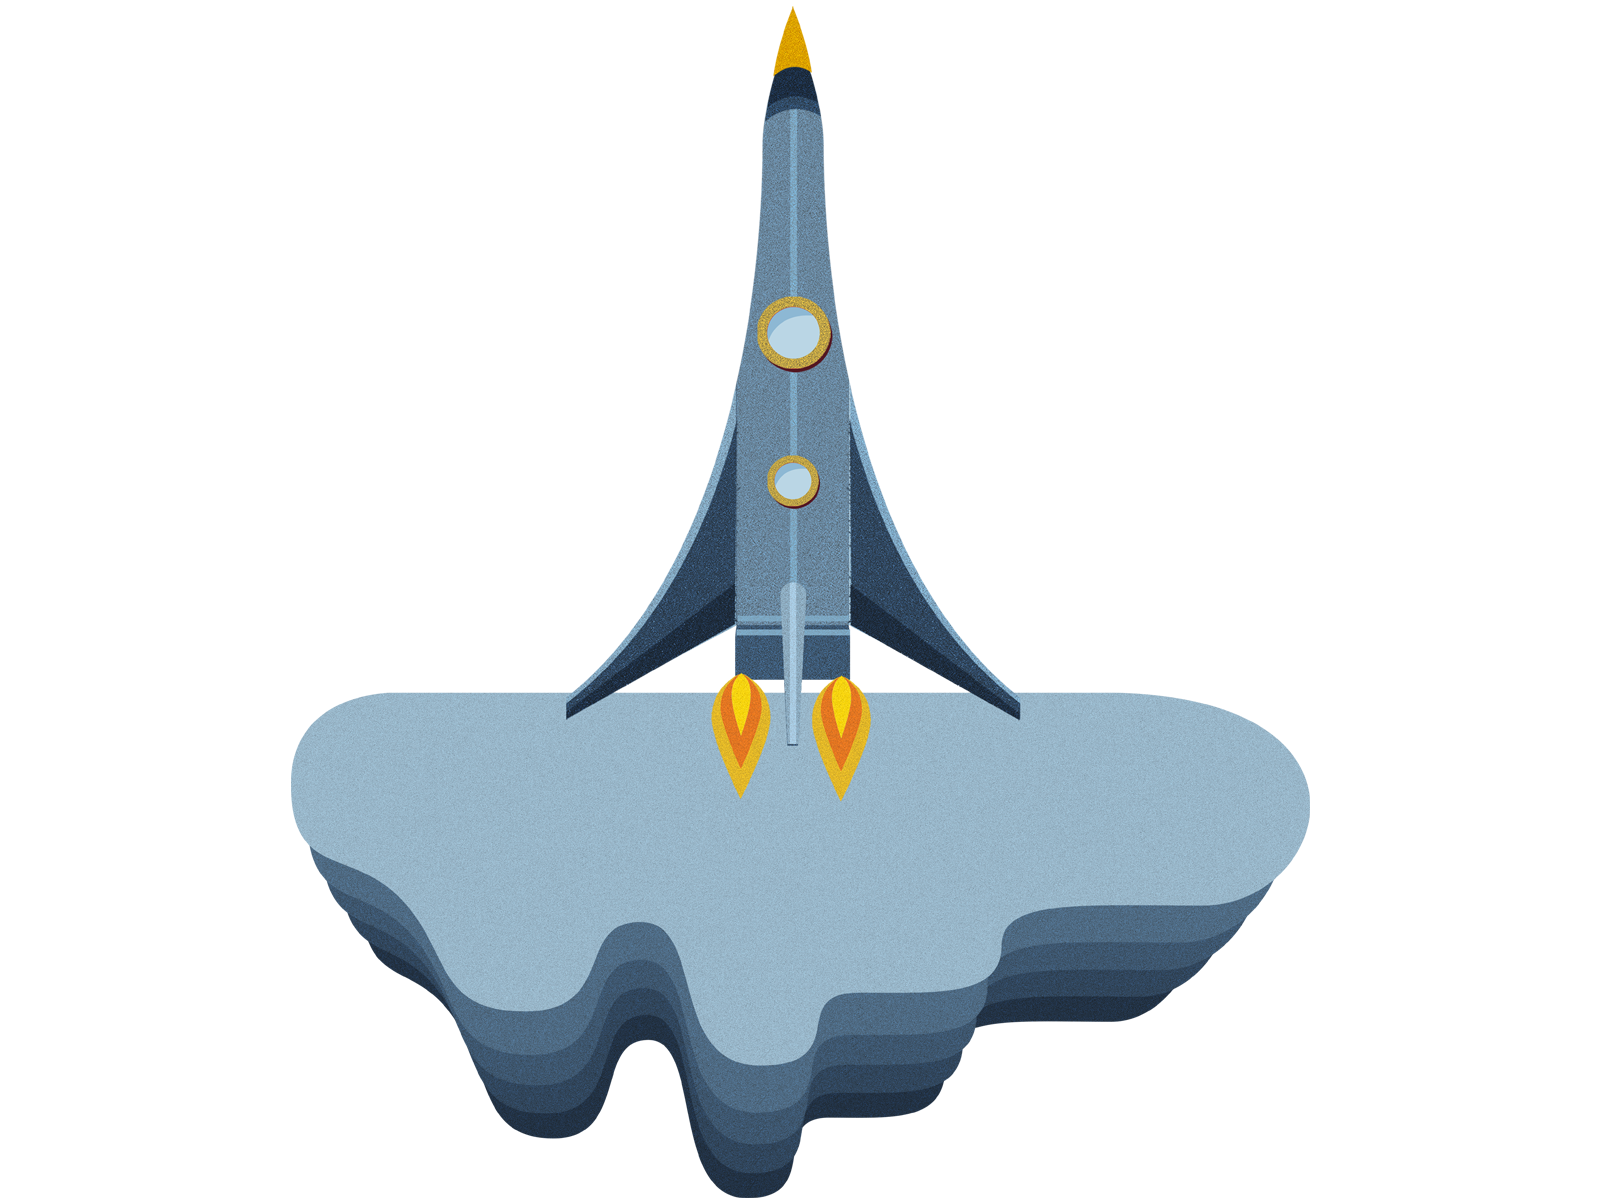
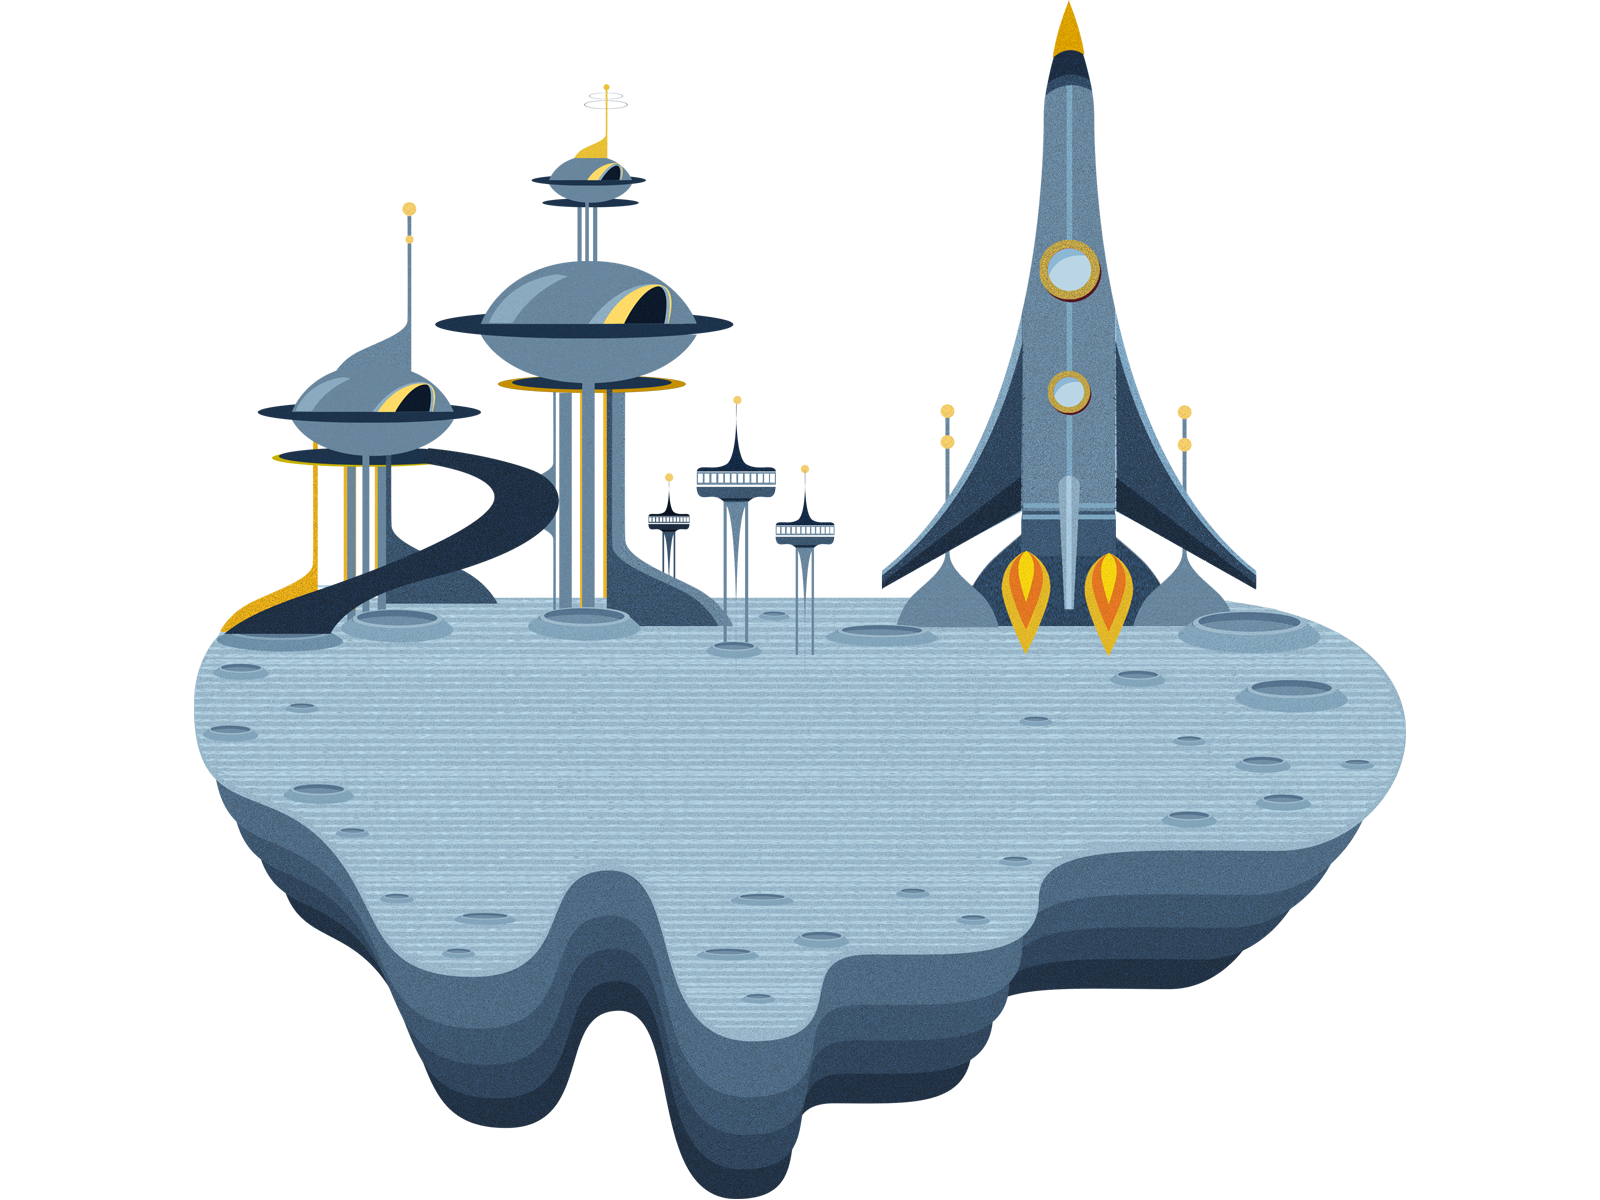
updates large trash and space island graphics

Changed region(s): [[0.0938, 0.0, 0.9062, 1.0], [0.25, 0.1542, 0.2812, 0.2158]]

diff --git a/app/components/Islands.css b/app/components/Islands.css
@@ -665,7 +665,7 @@
     background-color: map(islands, island-space, dark);
   }
   &#island #path {
-    top: 400px;
+    top: 360px;
   }
   &#island #path:before {
     background-color: map(islands, island-space, dark);
@@ -726,7 +726,7 @@
     background-color: map(islands, island-trash, dark);
   }
   &#island #path {
-    top: 315px;
+    top: 300px;
   }
   &#island #path:before {
     background-color: map(islands, island-trash, dark);
